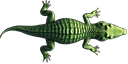
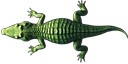
0.8.1

diff --git a/Assets/Definitions/Froggess/MAP_Froggess.js b/Assets/Definitions/Froggess/MAP_Froggess.js
@@ -23,7 +23,7 @@ const MAP = {
             dir: 1,
             gap: 4,
             speed: 1.5,
-            types: ["SUV", "PoliceCar", "FireTruck", "Ambulance"],
+            types: ["SUV", "PoliceCar"],
             start: 0,
             gridLength: 2,
         },
@@ -31,7 +31,7 @@ const MAP = {
             dir: -1,
             gap: 4,
             speed: 1.6,
-            types: ["BronzeFormula", "GoldFormula", "RedFormula", "SilverFormula"],
+            types: ["BronzeFormula", "GoldFormula", "SilverFormula"],
             start: 0,
             gridLength: 2,
         },
@@ -39,11 +39,9 @@ const MAP = {
             dir: 1,
             gap: 4,
             speed: 1.25,
-            types: ["BlueCar", "GreenCar", "OrangeCar", "PurpleCar", "RedCar", "SilverCar", "YellowCar"],
-            //types: ["BlueCar"],
+            types: ["BlueCar", "GreenCar", "OrangeCar"],
             start: 1,
             gridLength: 1,
-
         },
         4: {
             dir: -1,
@@ -107,10 +105,113 @@ const MAP = {
         },
         //finish lane
         11: {
-            //bonusBlink: ["FlyBonus"],
+            bonusBlink: ["FlyBonus"],
+        }
+    },
+    2: {
+        //first row, pavement
+        0: {
+            dir: 1,
+            gap: 14,
+            speed: 1,
+            start: 0,
+            gridLength: 1,
+            types: ["Snake"],
+        },
+        //road lanes
+        1: {
+            dir: 1,
+            gap: 4,
+            speed: 1.5,
+            types: ["SUV", "PoliceCar", "FireTruck", "Ambulance"],
+            start: 0,
+            gridLength: 2,
+        },
+        2: {
+            dir: -1,
+            gap: 4,
+            speed: 1.6,
+            types: ["BronzeFormula", "GoldFormula", "RedFormula", "SilverFormula"],
+            start: 0,
+            gridLength: 2,
+        },
+        3: {
+            dir: 1,
+            gap: 4,
+            speed: 1.25,
+            types: ["BlueCar", "GreenCar", "OrangeCar", "PurpleCar", "RedCar", "SilverCar", "YellowCar"],
+            //types: ["BlueCar"],
+            start: 1,
+            gridLength: 1,
+
+        },
+        4: {
+            dir: -1,
+            gap: 3,
+            speed: 1.0,
+            types: ["SilverTruck", "BrownTruck", "BronzeTruck"],
+            start: 0,
+            gridLength: 3,
+        },
+        //mid row, pavement
+        5: {
+            dir: 1,
+            gap: 14,
+            speed: 1.2,
+            start: 3,
+            gridLength: 1,
+            types: ["Snake"],
+        },
+        //water lanes
+        6: {
+            dir: -1,
+            gap: 2,
+            speed: 1,
+            types: ["Turtle3"],
+            start: 0,
+            gridLength: 3,
+        },
+        7: {
+            dir: 1,
+            gap: 2,
+            speed: 1.15,
+            types: ["Log3"],
+            start: 1,
+            gridLength: 3,
+
+        },
+        8: {
+            dir: 1,
+            gap: 2,
+            speed: 1.75,
+            types: ["Log5"],
+            start: 2,
+            gridLength: 5,
+        },
+        9: {
+            dir: -1,
+            gap: 3,
+            speed: 1.25,
+            types: ["Turtle4"],
+            start: 1,
+            gridLength: 4,
+
+        },
+        10: {
+            dir: 1,
+            gap: 3,
+            speed: 1.4,
+            types: ["Log4"],
+            start: 0,
+            gridLength: 4,
+            bonus: 1,
+            bonusTypes: ["FrogBonus"]
+        },
+        //finish lane
+        11: {
             enemyBlink: ["Beast"],
         }
     },
-    2: {},
-    3: {},
+    21: {},
+    31: {},
 };

diff --git a/Games/Froggess/Froggess.js b/Games/Froggess/Froggess.js
@@ -22,7 +22,7 @@ const DEBUG = {
     SETTING: true,
     FPS: true,
     VERBOSE: true,
-    _2D_display: true,
+    _2D_display: false,
     INVINCIBLE: false,
     keys: false,
     max17: false,
@@ -33,16 +33,17 @@ const INI = {
     HERO_HEALTH: 100,
     //HERO_HEIGHT: 0.15,
     WINDOW_SCALE: 0.90,
-    //TIMEOUT: 60,
-    TIMEOUT: 600,
+    TIMEOUT: 60,
+    //TIMEOUT: 600,
     MAX_ROW: 11,
     SCORE_ROW: 10,
     SCORE_GOAL: 50,
     SCORE_PER_SECOND: 10,
+    MAX_LEVEL: 1,
 };
 
 const PRG = {
-    VERSION: "0.8.0",
+    VERSION: "0.8.1",
     NAME: "Froggess",
     YEAR: "2026",
     SG: "Froggess",
@@ -135,7 +136,6 @@ const HERO = {
         //this.to_fill = 1; //
     },
     bonus(score) {
-        //console.warn("bonus added ", score);
         this.accumulatedBonus += score;
         AUDIO.Ribbit.play();
     },
@@ -143,12 +143,12 @@ const HERO = {
         if (!HERO.player.moveState.moving) HERO.player.sprite.reset();
     },
     die() {
-        console.error("HERO.die");
+        console.red("HERO.die");
         if (HERO.dead) return;
         HERO.dead = true;
     },
     async death() {
-        console.error("HERO.death");
+        console.red("HERO.death");
         ENGINE.GAME.ANIMATION.stop();
         GAME.lives--;
 
@@ -157,8 +157,8 @@ const HERO = {
         HERO.finalDeath();
     },
     finalDeath() {
-        console.error("HERO.finalDeath");
-        if (GAME.lives > 0) return GAME.levelStart();
+        console.red("HERO.finalDeath");
+        if (GAME.lives > 0) return GAME.continueLevel();
         GAME.checkScore();
         TITLE.hiscore();
         TITLE.startTitle();
@@ -167,7 +167,7 @@ const HERO = {
         this.player.continueMove(lapsedTime);
     },
     completeLevel() {
-        console.error("level completed");
+        console.ok("level completed");
         AUDIO.LevelUp.play();
         GAME.level++;
         GAME.levelStart();
@@ -183,7 +183,6 @@ const HERO = {
         const start_grid = Grid.toClass(map.startPosition.grid);
         HERO.player = new $2D_player(start_grid, start_dir, HERO_TYPE.Froggess, map.GA, map);
         HERO.player.addDeathTexture(SPRITE.DeadFrog);
-        //console.log("HERO.player", HERO.player);
         if (GAME.time) GAME.time.unregister();
         GAME.time = new CountDown("LevelTime", INI.TIMEOUT, HERO.die);
     },
@@ -267,8 +266,8 @@ const GAME = {
         ENGINE.GAME.setGameLoop(GAME.run);
         ENGINE.GAME.start(16);
         GAME.extraLife = SCORE.extraLife.clone();
-        GAME.level = 1;
-        GAME.lives = 3; //3
+        GAME.level = 2; //1
+        GAME.lives = 13; //3
         GAME.score = 0;
 
         GAME.fps = new FPS_short_term_measurement(300);
@@ -280,7 +279,7 @@ const GAME = {
         WebGL.INI.BACKGROUND_ALPHA = 0.0;
     },
     levelStart() {
-        console.log("starting level", GAME.level);
+        if (DEBUG.VERBOSE) console.log("Starting level", GAME.level);
         GAME.prepareForRestart();
         ENGINE.draw("background", 0, 0, TEXTURE.FroggessBackground);
         HERO.construct();
@@ -289,9 +288,15 @@ const GAME = {
         GAME.continueLevel();
     },
     continueLevel() {
+        if (DEBUG.VERBOSE) console.log("Continue level", GAME.level);
+        HERO.dead = false;
+        HERO.playerSetUp();
+        GAME.setCameraView();
+        GAME.setWorld();
         GAME.levelExecute();
     },
     levelExecute() {
+        if (DEBUG.VERBOSE) console.log("Execute level", GAME.level);
         GAME.drawFirstFrame(GAME.level);
         ENGINE.GAME.resume();
     },
@@ -303,15 +308,12 @@ const GAME = {
         if (DEBUG.VERBOSE) console.info("init level", level);
         this.newDungeon();
         this.buildWorld(level);
-        HERO.playerSetUp();
-        GAME.setCameraView();
-        GAME.setWorld();
     },
     setWorld() {
         WebGL.init2D('webgl');
     },
     buildWorld(level) {
-        if (DEBUG.VERBOSE) console.info(" ******** building world, room/dungeon/level:", level, "restart", GAME.restarted);
+        if (DEBUG.VERBOSE) console.info(" ******** building world, room/dungeon/level:", level);
         WebGL.init_required_IAM(MAP.main.map, HERO);
         SPAWN_TOOLS.spawnLanes(level, MAP.main.map.GA);
     },
@@ -366,7 +368,6 @@ const GAME = {
     run(lapsedTime) {
         if (ENGINE.GAME.stopAnimation) return;
         const date = Date.now();
-        //EXPLOSION3D.manage(date);
         GAME.respond(lapsedTime);
         ENGINE.TIMERS.update();
         HERO.manage(lapsedTime);
@@ -450,8 +451,8 @@ const GAME = {
         const remains = GAME.time.remains();
         if (remains <= 0) {
             HERO.to_fill--;
-            if (HERO.to_fill === 0) return HERO.completeLevel();
             HERO.playerSetUp();
+            if (HERO.to_fill === 0) return HERO.completeLevel();
             ENGINE.GAME.ANIMATION.next(ENGINE.GAME.gameLoop);
         }
 

diff --git a/Code/JS/Library/Engine/MAP and SPAWN tools_2_03.js b/Code/JS/Library/Engine/MAP and SPAWN tools_2_03.js
@@ -117,7 +117,11 @@ const MAP_TOOLS = {
         this.MAP[level].map.stopSpawning = this.MAP[level].stopSpawning || false;
 
         this.MAP[level].unpacked = true;
-        if (ENGINE.verbose) console.info("Unpacked MAP level", level, "map", this.MAP[level].map);
+        if (ENGINE.verbose) {
+            console.note(`Unpacked MAP level: ${level}`);
+            console.log("map:", this.MAP[level].map);
+        }
+
     },
     resetStorages() {
         for (const level in this.MAP) {
@@ -459,11 +463,11 @@ const SPAWN_TOOLS = {
     },
     spawnLanes(level, GA = MAP_TOOLS.MAP[level].map.GA) {
         const map = MAP_TOOLS.MAP[level];
-        console.log("spawning lanes for level", level, "map", map, "GA", GA, "GA.width", GA.width);
+        //console.log("spawning lanes for level", level, "map", map, "GA", GA, "GA.width", GA.width);
         const blinkGrids = [new Grid(1, 0), new Grid(4, 0), new Grid(7, 0), new Grid(10, 0), new Grid(13, 0)];
         for (const laneIndex in MAP_TOOLS.MAP[level]) {
             const lane = map[laneIndex]
-            console.log("..lane", laneIndex, lane);
+            //console.log("..lane", laneIndex, lane);
             const types = lane.types || null;
             const gridsUsed = [];
             const dir = new Vector(lane.dir, 0);
@@ -475,7 +479,7 @@ const SPAWN_TOOLS = {
                     type.speed = speed;
                     type.w = ENGINE.INI.GRIDPIX;
                     type.h = ENGINE.INI.GRIDPIX;
-                    console.log("...type", type);
+                    //console.log("...type", type);
 
 
                     for (let off = 0; off < type.gridLength; off++) {
@@ -483,19 +487,19 @@ const SPAWN_TOOLS = {
                         gridsUsed.push(grid);
                         if (!type.animate) type.spriteTexture = ASSET[type.asset].textures[off] || ASSET[type.asset].textures[0];
                         const entity = new $2D_Grid_Cycling_Entity_Part(grid, dir, type, GA);
-                        console.log(".....entity", entity);
+                        //console.log(".....entity", entity);
                         PLANE_GRID1D.add(entity);
                     }
                 }
                 const bonus = lane.bonus || null;
                 if (bonus) {
-                    console.warn("...bonus", bonus);
+                    //console.warn("...bonus", bonus);
                     for (let b = 0; b < bonus; b++) {
                         const bGrid = gridsUsed.removeRandom();
                         const bType = MONSTER_TYPE[lane.bonusTypes.chooseRandom()];
                         bType.speed = speed;
                         const bEntity = new $2D_Grid_Cycling_Entity_Part(bGrid, dir, bType, GA);
-                        console.log(".....bEntity", bEntity);
+                        //console.log(".....bEntity", bEntity);
                         PLANE_GRID1D.add(bEntity);
                     }
                 }
@@ -508,7 +512,7 @@ const SPAWN_TOOLS = {
                 bbType.useGrids = blinkGrids;
                 bbType.speed = 0;
                 const bbEntity = new $2D_Grid_Cycling_Entity_Part(bbGrid, NOWAY, bbType, GA);
-                console.log(".....bonusBlink Entity", bbEntity);
+                //console.log(".....bonusBlink Entity", bbEntity);
                 PLANE_GRID1D.add(bbEntity);
 
             } else if (lane.enemyBlink) {
@@ -517,7 +521,7 @@ const SPAWN_TOOLS = {
                 ebType.useGrids = blinkGrids;
                 ebType.speed = 0;
                 const ebEntity = new $2D_Grid_Cycling_Entity_Part(ebGrid, NOWAY, ebType, GA);
-                console.log(".....bonusBlink ENEMY", ebEntity);
+                //console.log(".....bonusBlink ENEMY", ebEntity);
                 PLANE_GRID1D.add(ebEntity);
             }
         }

diff --git a/Code/JS/Library/Engine/Prototype_5_04.js b/Code/JS/Library/Engine/Prototype_5_04.js
@@ -284,6 +284,9 @@ console.proto = function (
 console.title = (text) => console.proto(text, "#EEE", "bold", "18px");
 console.chapter = (text) => console.proto(text, "#AAA", "bold", "15px");
 console.ready = (text) => console.proto(`\n${text}\n\n`, "#38e538", "bold", "14px");
+console.red = (text) => console.proto(text, "#f50808", "bold");
+console.ok = (text) => console.proto(text, "#04ce3a", "bold");
+console.note = (text) => console.proto(text, "#ffffff", "italic");
 console.star = (color) => console.proto("**************************************************************************************************************************************", color);
 console.line = (color) => console.proto("--------------------------------------------------------------------------------------------------------------------------------------", color);
 

diff --git a/Assets/Definitions/Froggess/Monsters_Froggess.js b/Assets/Definitions/Froggess/Monsters_Froggess.js
@@ -210,7 +210,7 @@ const MONSTER_TYPE = {
         canVanish: true,
         vanishTimer: 5,
         animate: false,
-        dirRef: RIGHT,
+        dirRef: LEFT,
     },
     Ambulance: {
         name: "Ambulance",